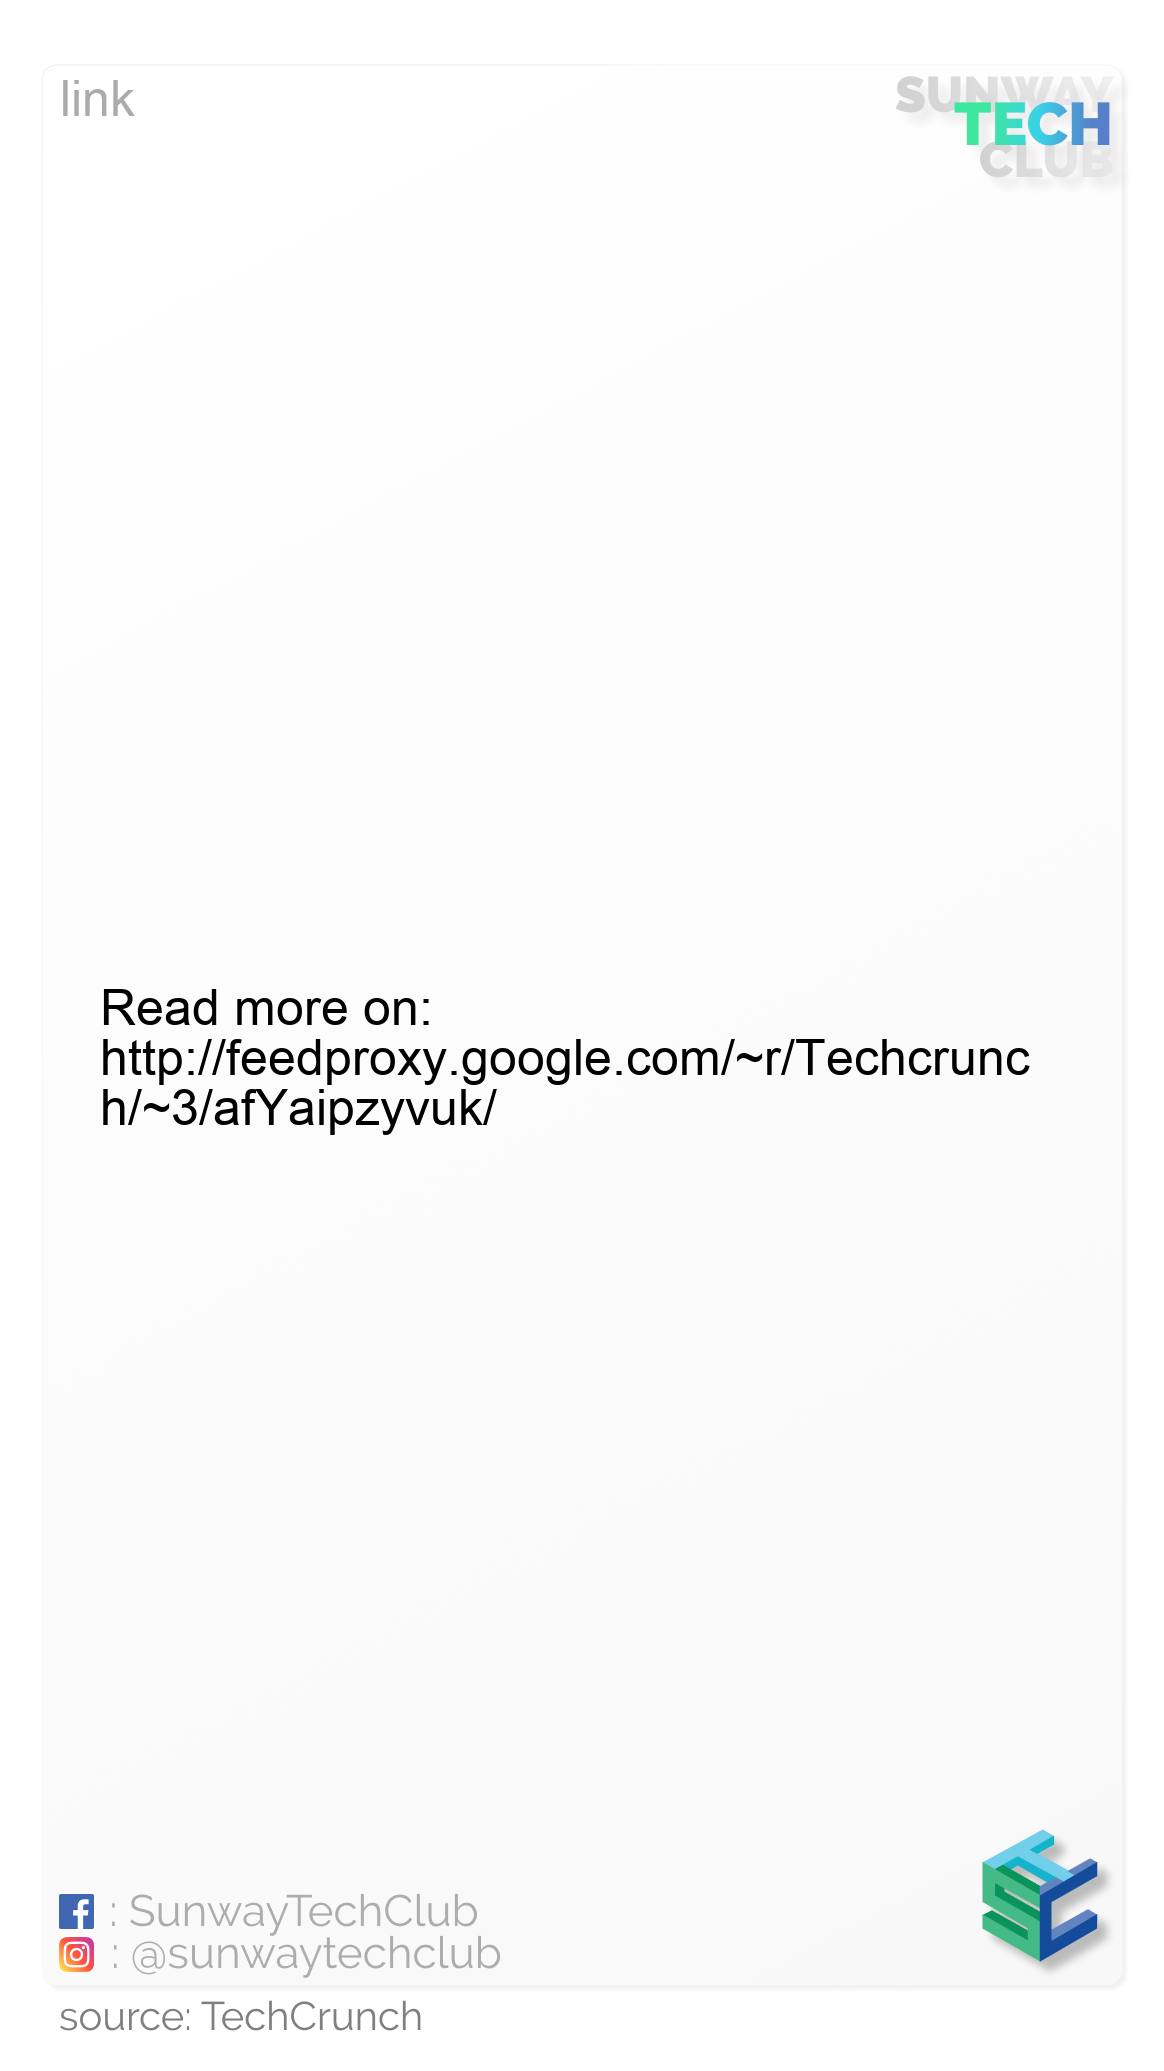
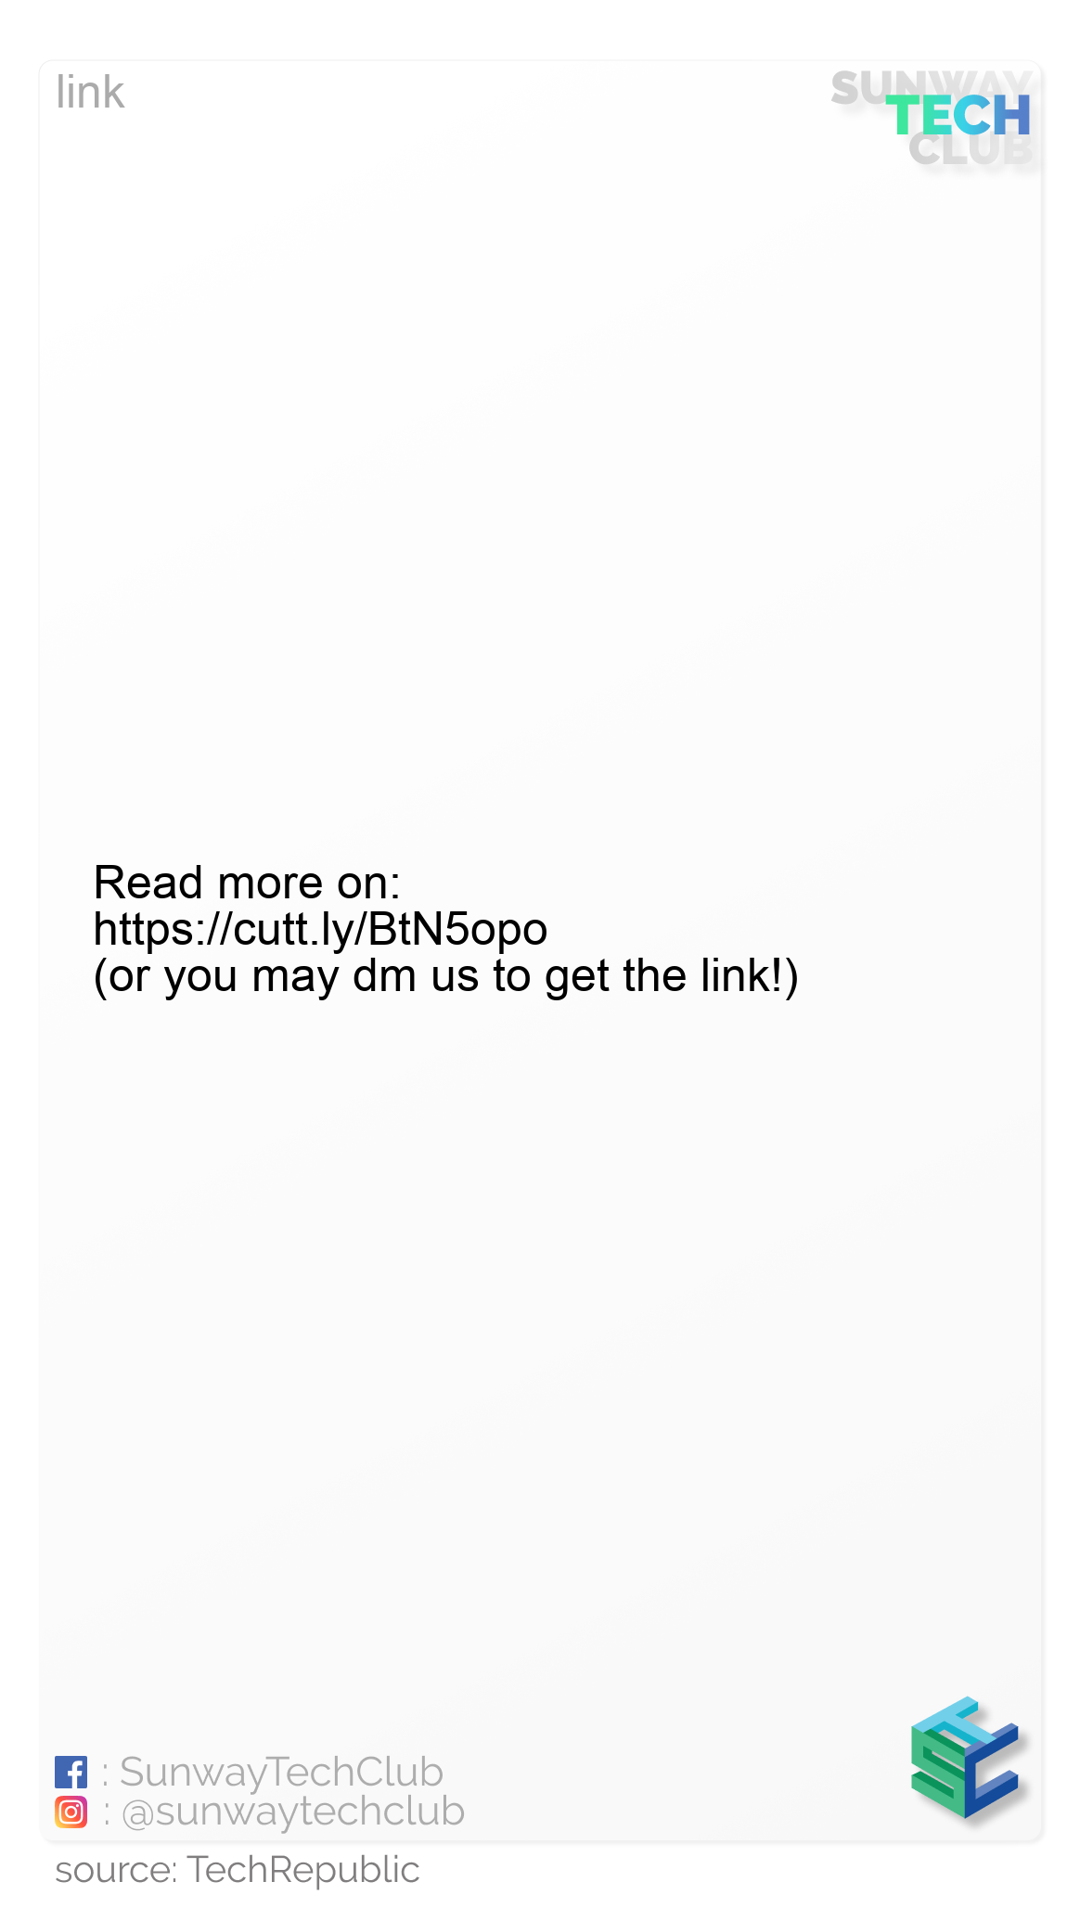
updated rss source

Changed region(s): [[0.0917, 0.4375, 0.8861, 0.5625], [0.2444, 0.9688, 0.3667, 1.0]]

diff --git a/app.py b/app.py
@@ -27,10 +27,11 @@ def generate(index):
         key = f.read().replace(" ", "").replace("\n", "")
 
     res = generate_short_link(
-        entry.link, key, 'stc-insta-'+str(date.today().month)+"-"+str(date.today().day))
+        entry.link, key, 'stc-insta-story-'+str(date.today().month)+"-"+str(date.today().day))
     output_link = res['url'].get('shortLink', output_link)
 
-    output_link = "Read more on: \n"+output_link
+    output_link = "Read more on: \n"+output_link + \
+        "\n"+"(or you may dm us to get the link!)"
 
     paragraphs = soup.get_text().split(". ")
     text_len = 0
@@ -46,8 +47,7 @@ def generate(index):
     output_cert('summary', output_text, text_len)
 
 
-NewsFeed = feedparser.parse(
-    "http://feeds.feedburner.com/TechCrunch/")
+NewsFeed = feedparser.parse("https://www.techrepublic.com/rssfeeds/articles/")
 
 titles = []
 amount = 0

diff --git a/generate_story.py b/generate_story.py
@@ -20,6 +20,7 @@ def output_cert(title, val, line_length):
               val, (0, 0, 0), font=font)
     draw.text((60, 70),
               title, (171, 171, 171), font=font)
+    img = img.resize((1080, 1920))
     img.save(f'output/{title}.png')
     print(f'Generated {title}')
 
